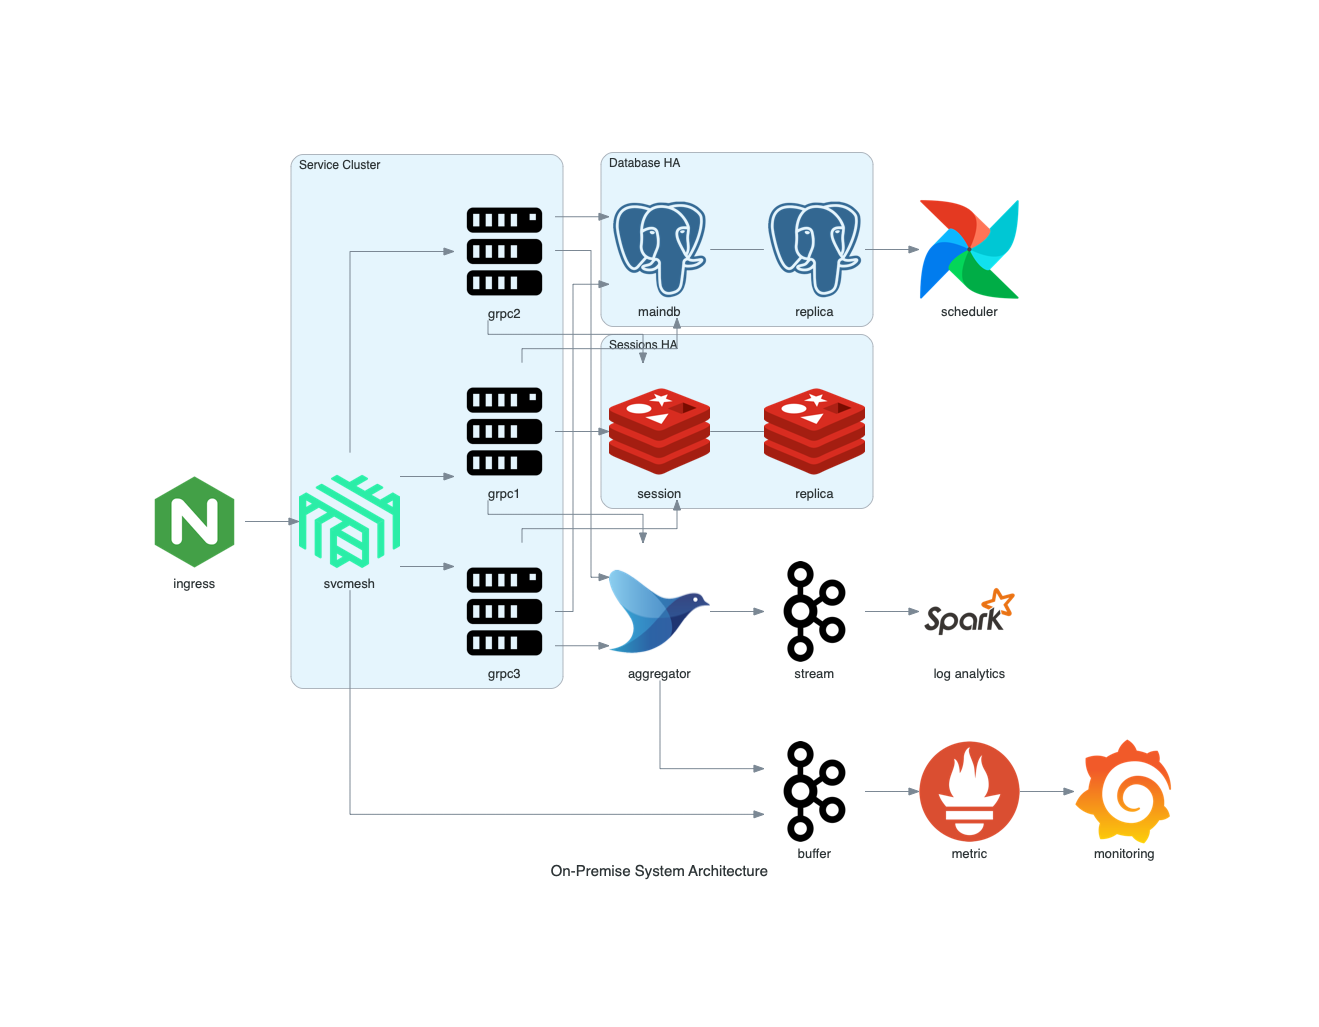
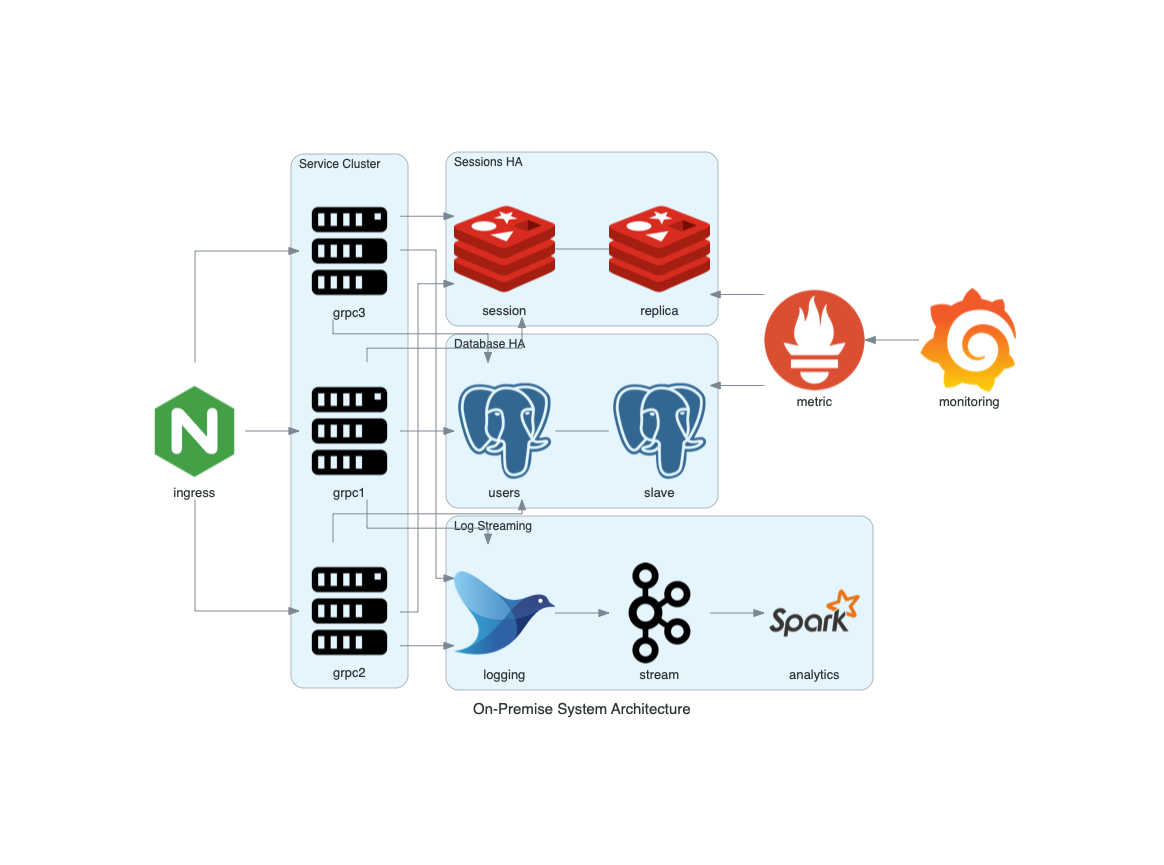
docs: update on-premise example

Changed region(s): [[0.0928, 0.1249, 0.866, 0.874], [0.8041, 0.7179, 0.8969, 0.8428]]

diff --git a/docs/getting-started/examples.md b/docs/getting-started/examples.md
@@ -211,42 +211,36 @@ from diagrams.onprem.database import PostgreSQL
 from diagrams.onprem.inmemory import Redis
 from diagrams.onprem.logging import Fluentd
 from diagrams.onprem.monitoring import Grafana, Prometheus
-from diagrams.onprem.network import Linkerd, Nginx
+from diagrams.onprem.network import Nginx
 from diagrams.onprem.queue import Kafka
-from diagrams.onprem.workflow import Airflow
 
 with Diagram("On-Premise System Architecture", show=False):
     ingress = Nginx("ingress")
 
+    metrics = Prometheus("metric")
+    metrics << Grafana("monitoring")
+
     with Cluster("Service Cluster"):
-        svcmesh = Linkerd("svcmesh")
-        grpcsvc = [Server("grpc1"), Server("grpc2"), Server("grpc3")]
-        svcmesh >> grpcsvc
-
-    with Cluster("Database HA"):
-        maindb_master = PostgreSQL("maindb")
-        maindb_replica = PostgreSQL("replica")
-        maindb_master - maindb_replica
-        grpcsvc >> maindb_master
-
-    maindb_replica >> Airflow("scheduler")
+        grpcsvc = [
+            Server("grpc1"),
+            Server("grpc2"),
+            Server("grpc3")]
 
     with Cluster("Sessions HA"):
-        session_master = Redis("session")
-        session_master - Redis("replica")
-        grpcsvc >> session_master
+        master = Redis("session")
+        master - Redis("replica") << metrics
+        grpcsvc >> master
 
-    logaggr = Fluentd("aggregator")
-    logaggr >> Kafka("stream") >> Spark("log analytics")
-    grpcsvc >> logaggr
+    with Cluster("Database HA"):
+        master = PostgreSQL("users")
+        master - PostgreSQL("slave") << metrics
+        grpcsvc >> master
 
-    metricq = Kafka("buffer")
-    metricq >> Prometheus("metric") >> Grafana("monitoring")
+    with Cluster("Log Streaming"):
+        aggregator = Fluentd("logging")
+        aggregator >> Kafka("stream") >> Spark("analytics")
 
-    logaggr >> metricq
-    svcmesh >> metricq
-
-    ingress >> svcmesh
+    ingress >> grpcsvc >> aggregator
 ```
 
 ![on-premise system architecture diagram](/img/on-premise_system_architecture.png)
